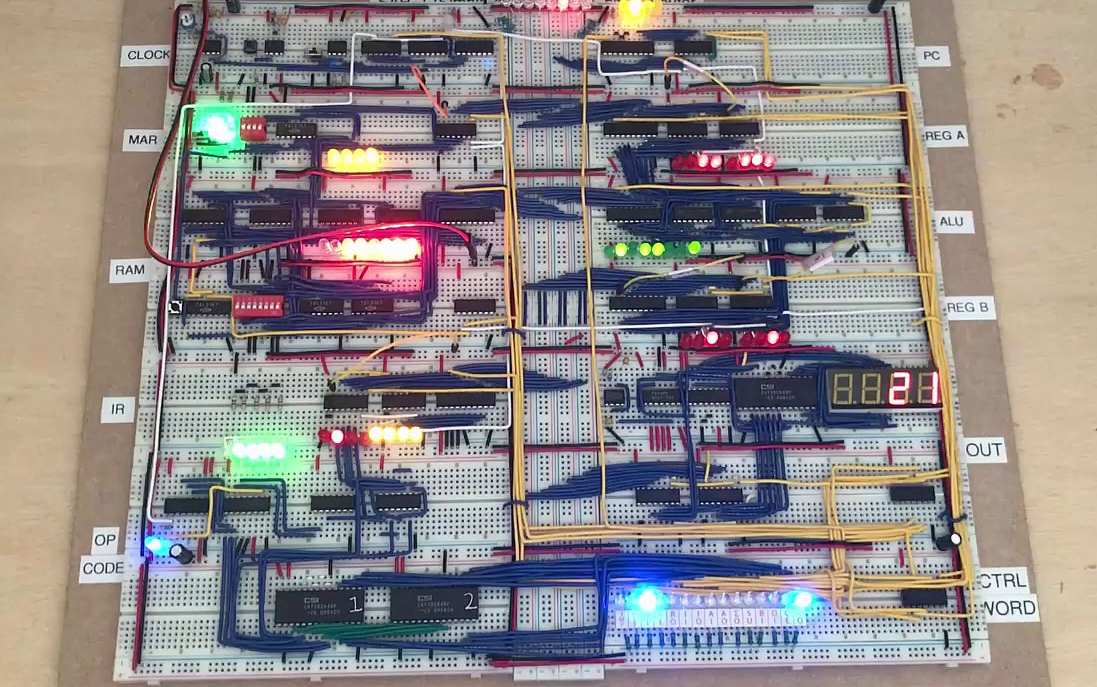
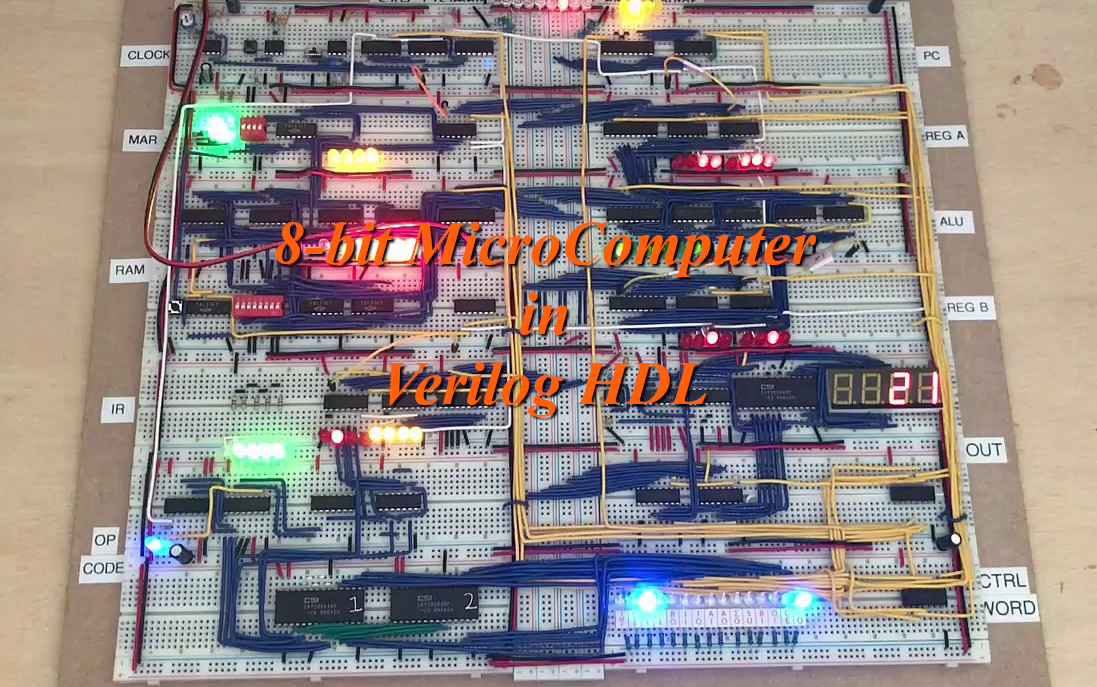
added embedded image labels

Changed region(s): [[0.2479, 0.3057, 0.7438, 0.4279], [0.3409, 0.5197, 0.6509, 0.6114], [0.4649, 0.4279, 0.5269, 0.4891]]

diff --git a/index.html b/index.html
@@ -144,7 +144,7 @@
                                 <div class="portfolio__content">
                                     <div class="portfolio__content-main">
                                         <article class="portfolio__item">
-                                            <div class="portfolio__item-preview" style="background-image: url(&#39;./TheSUPERCD/8bitComputer.png&#39;);" data-portfolio="koozmetik">
+                                            <div class="portfolio__item-preview" style="background-image: url(&#39;./TheSUPERCD/8bitComputer1.png&#39;);" data-portfolio="koozmetik">
                                                 <ul class="portfolio__item-cta">
                                                     <li class="portfolio__item-cta__item">
                                                         <a href="https://github.com/TheSUPERCD/8bit_MicroComputer_Verilog" target="_blank" class="portfolio__item-cta__link">
@@ -174,7 +174,7 @@
                                             </div>
                                         </article>
                                         <article class="portfolio__item">
-                                            <div class="portfolio__item-preview" style="background-image: url(&#39;./TheSUPERCD/ATM.png&#39;);" data-portfolio="movcam">
+                                            <div class="portfolio__item-preview" style="background-image: url(&#39;./TheSUPERCD/ATM1.png&#39;);" data-portfolio="movcam">
                                                 <ul class="portfolio__item-cta">
                                                     <li class="portfolio__item-cta__item">
                                                         <a href="https://github.com/TheSUPERCD/ATM_Project" target="_blank" class="portfolio__item-cta__link">
@@ -206,7 +206,7 @@
                                             </div>
                                         </article>
                                         <article class="portfolio__item">
-                                            <div class="portfolio__item-preview" style="background-image: url(&#39;./TheSUPERCD/Robotic_Arm.png&#39;);" data-portfolio="souvoce2018">
+                                            <div class="portfolio__item-preview" style="background-image: url(&#39;./TheSUPERCD/Robotic_Arm1.png&#39;);" data-portfolio="souvoce2018">
                                                 <ul class="portfolio__item-cta">
                                                     <li class="portfolio__item-cta__item">
                                                         <a href="https://github.com/TheSUPERCD/Robotic_Arm" target="_blank" class="portfolio__item-cta__link">
@@ -233,7 +233,7 @@
                                             </div>
                                         </article>
                                         <article class="portfolio__item">
-                                            <div class="portfolio__item-preview" style="background-image: url(&#39;./TheSUPERCD/Webpage.png&#39;);" data-portfolio="souvoce2018">
+                                            <div class="portfolio__item-preview" style="background-image: url(&#39;./TheSUPERCD/Webpage.jpeg&#39;);" data-portfolio="souvoce2018">
                                                 <ul class="portfolio__item-cta">
                                                     <li class="portfolio__item-cta__item">
                                                         <a href="https://github.com/TheSUPERCD/ATM_Project" target="_blank" class="portfolio__item-cta__link">
